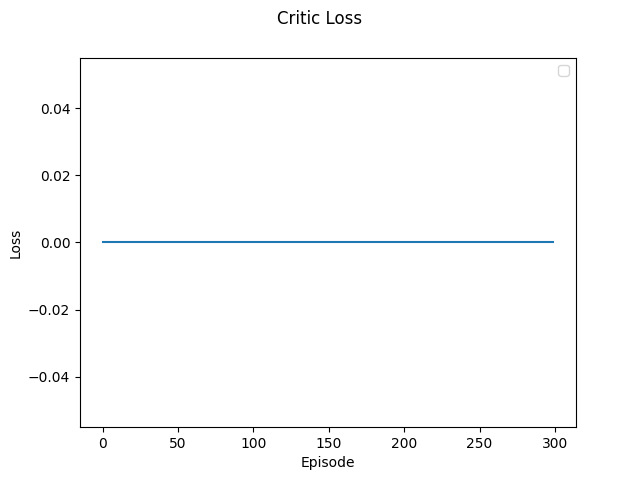
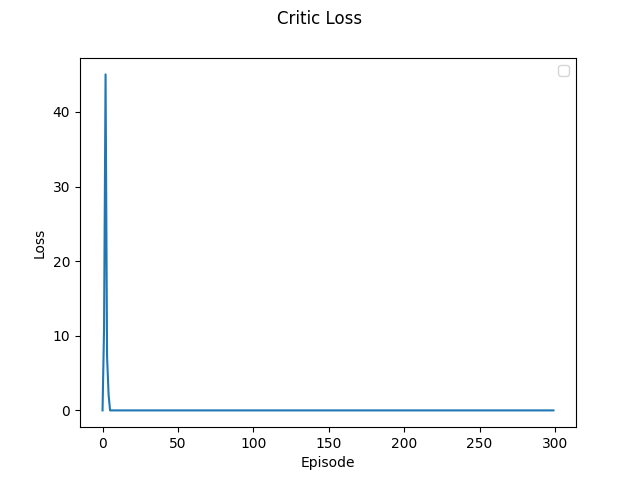
Massive improvement

diff --git a/entities/player.py b/entities/player.py
@@ -57,7 +57,6 @@ class Player(pygame.sprite.Sprite):
                     alpha,
                     policy_clip,
                     batch_size,
-                    N,
                     n_epochs,
                     gae_lambda,
                     chkpt_dir,
@@ -75,7 +74,6 @@ class Player(pygame.sprite.Sprite):
             alpha=alpha,
             policy_clip=policy_clip,
             batch_size=batch_size,
-            N=N,
             n_epochs=n_epochs,
             gae_lambda=gae_lambda,
             entropy_coef=entropy_coef,
@@ -168,32 +166,32 @@ class Player(pygame.sprite.Sprite):
 
         self.action_features = [self._input.action]
 
-        # self.reward = [
-        #     np.log(1 + self.stats.exp),
-        #
-        #     fermi(nearest_dist, 50),
-        #
-        #     fermi(
-        #         nearest_enemy.stats.health,
-        #         nearest_enemy.stats.monster_info['health']
-        #     ),
-        #
-        #     maxwell(
-        #         len(self.distance_direction_from_enemy),
-        #         self.max_num_enemies
-        #     ) - 1,
-        #
-        #     - fermi(
-        #         self.stats.health,
-        #         self.stats.stats['health']
-        #     ),
-        # ]
+        self.reward = [
+            np.log(1 + self.stats.exp) if self.stats.exp >= 0 else -10,
 
-        self.reward = self.stats.exp\
-            + self.stats.health/self.stats.stats['health'] - 1\
-            - nearest_dist/np.sqrt(np.sum(self.map_edge))\
-            - nearest_enemy.stats.health/nearest_enemy.stats.monster_info['health']\
-            - len(self.distance_direction_from_enemy)/self.max_num_enemies
+            fermi(nearest_dist, 300),
+
+            fermi(
+                nearest_enemy.stats.health,
+                nearest_enemy.stats.monster_info['health']
+            ),
+
+            maxwell(
+                len(self.distance_direction_from_enemy),
+                self.max_num_enemies
+            ) - 1,
+
+            - fermi(
+                self.stats.health,
+                self.stats.stats['health']
+            )
+        ]
+
+        # self.reward = self.stats.exp\
+        #     + self.stats.health/self.stats.stats['health'] - 1\
+        #     - nearest_dist/np.sqrt(np.sum(self.map_edge))\
+        #     - nearest_enemy.stats.health/nearest_enemy.stats.monster_info['health']\
+        #     - 2*len(self.distance_direction_from_enemy)/self.max_num_enemies
 
         self.state_features = [
             self.animation.rect.center[0]/self.map_edge[0],

diff --git a/pneuma.py b/pneuma.py
@@ -75,7 +75,7 @@ if __name__ == "__main__":
 
     parser.add_argument('--entropy',
                         type=float,
-                        default=0.001,
+                        default=0.01,
                         help="The entropy coefficient")
 
     parser.add_argument('--alpha',
@@ -139,13 +139,13 @@ if __name__ == "__main__":
     game = Game(show_pg=show_pygame, n_players=n_players)
 
     print("Initializing agents ...")
-    for player in game.level.player_sprites:
+    for player in tqdm(game.level.player_sprites,
+                       dynamic_ncols=True):
         player.setup_agent(
             gamma=args.gamma,
             alpha=args.alpha,
             policy_clip=args.policy_clip,
             batch_size=args.batch_size,
-            N=args.horizon,
             n_epochs=args.n_epochs,
             gae_lambda=args.gae_lambda,
             entropy_coef=args.entropy,
@@ -157,8 +157,10 @@ if __name__ == "__main__":
     for episode in tqdm(range(n_episodes),
                         dynamic_ncols=True):
 
-        # This handles agent continuity, as well as score persistence
         game.level.reset()
+
+        episode_reward = np.zeros(
+            shape=(n_players, episode_length))
 
         episode_actor_loss = np.zeros(
             shape=(n_players, learnings_per_episode))
@@ -177,8 +179,13 @@ if __name__ == "__main__":
 
             if not game.level.done:
                 game.run()
-                if step % horizon == 0:
-                    for player in game.level.player_sprites:
+
+                for player in game.level.player_sprites:
+
+                    episode_reward[player.player_id][step] = np.mean(
+                        player.reward)
+
+                    if (step % horizon == 0 and step != 0) or player.is_dead():
 
                         player.agent.learn()
 
@@ -196,10 +203,10 @@ if __name__ == "__main__":
         # Gather information about the episode
         for player in game.level.player_sprites:
 
-            score = player.reward
+            score = np.mean(episode_reward[player.player_id])
 
             # Update score
-            score_history[player.player_id][episode] = np.mean(score)
+            score_history[player.player_id][episode] = score
 
             # Update actor/critic loss
             actor_loss[player.player_id][episode] = np.mean(

diff --git a/agents/ppo/agent.py b/agents/ppo/agent.py
@@ -1,13 +1,15 @@
 import numpy as np
 import torch as T
 
+from tqdm import tqdm
+
 from .brain import ActorNetwork, CriticNetwork, PPOMemory
 
 
 class Agent:
 
     def __init__(self, input_dims, n_actions, gamma=0.99, alpha=0.0003,
-                 policy_clip=0.2, batch_size=64, N=2048, n_epochs=10,
+                 policy_clip=0.2, batch_size=64, n_epochs=10,
                  gae_lambda=0.95, entropy_coef=0.001, chkpt_dir='tmp/ppo'):
 
         self.gamma = gamma
@@ -50,7 +52,12 @@ class Agent:
         return action, probs, value
 
     def learn(self):
-        for _ in range(self.n_epochs):
+        for _ in tqdm(range(self.n_epochs),
+                      desc='Learning...',
+                      dynamic_ncols=True,
+                      leave=False,
+                      ascii=True):
+
             state_arr, action_arr, old_probs_arr, vals_arr, reward_arr, dones_arr, batches = self.memory.generate_batches()
 
             values = vals_arr
@@ -102,11 +109,11 @@ class Agent:
                 self.critic.optimizer.zero_grad()
                 self.total_loss.backward()
 
-                # T.nn.utils.clip_grad_norm_(
-                #     self.actor.parameters(), max_norm=2)
-                #
-                # T.nn.utils.clip_grad_norm_(
-                #     self.critic.parameters(), max_norm=2)
+                T.nn.utils.clip_grad_norm_(
+                    self.actor.parameters(), max_norm=2)
+
+                T.nn.utils.clip_grad_norm_(
+                    self.critic.parameters(), max_norm=2)
                 #
                 # # Calculate the gradient norms for both networks
                 # actor_grad_norm = T.nn.utils.clip_grad_norm_(

diff --git a/camera.py b/camera.py
@@ -15,11 +15,6 @@ class Camera(pygame.sprite.Group):
         self.half_height = self.display_surface.get_size()[1] // 2
         self.offset = pygame.math.Vector2(100, 200)
 
-        # Creating the floor
-        image_path = import_assets(os.path.join('graphics',
-                                                'tilemap',
-                                                'ground.png'))
-
         self.floor_surf = pygame.image.load(
             import_assets(
                 os.path.join('graphics',

diff --git a/agents/ppo/brain.py b/agents/ppo/brain.py
@@ -59,9 +59,9 @@ class ActorNetwork(nn.Module):
 
         self.actor = nn.Sequential(
             nn.Linear(input_dim, fc1_dims),
-            nn.ReLU(),
+            nn.LeakyReLU(),
             nn.Linear(fc1_dims, fc2_dims),
-            nn.ReLU(),
+            nn.LeakyReLU(),
             nn.Linear(fc2_dims, output_dim),
             nn.Softmax(dim=-1)
         )

diff --git a/configs/game/monster_config.py b/configs/game/monster_config.py
@@ -30,7 +30,7 @@ monster_data = {
                'notice_radius': 350},
 
     'bamboo': {'id': 4,
-               'health': 70,
+               'health': 50,
                'exp': 9,
                'attack': 20,
                'attack_type': 'leaf_attack',

diff --git a/configs/game/player_config.py b/configs/game/player_config.py
@@ -1,10 +1,10 @@
 tank_stats = {
     'role_id': 1,
     'health': 150,
-    'energy': 40,
+    'energy': 70,
     'attack': 10,
-    'magic': 3,
-    'speed': 3
+    'magic': 5,
+    'speed': 5
 }
 
 mage_stats = {
